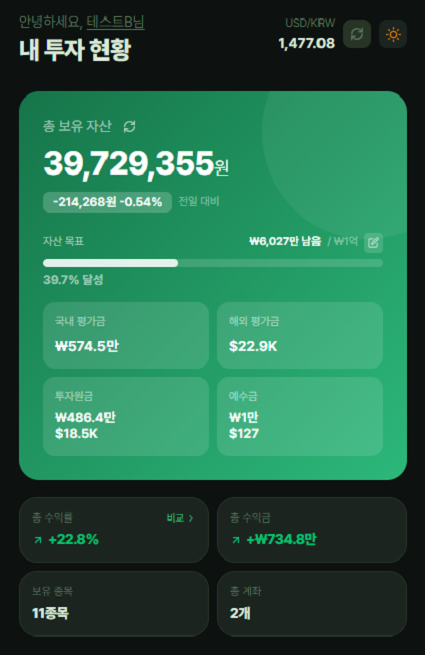
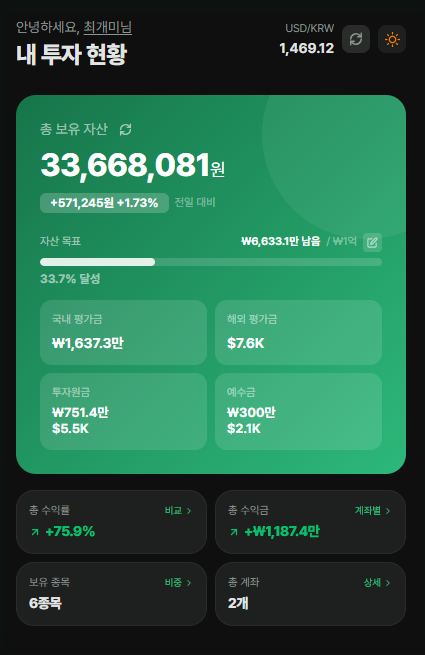
feat: 슬라이드 핵심기능 카드1 이미지 확대 오버레이 추가 + 슬라이드 이미지 업데이트
- 통합 포트폴리오 카드 이미지 영역 클릭 시 img_portfolio_2.png 오버레이 팝업
- 카드2(매매일지), 카드3(영상)과 동일한 zoom-in 오버레이 패턴 적용
- public/slides 이미지 3종 업데이트

diff --git a/src/app/slides/page.tsx b/src/app/slides/page.tsx
@@ -433,6 +433,7 @@ function OcrVideo({ T, active }: { T: Theme; active: boolean }) {
 
 function Slide4a({ T, printMode }: { T: Theme; printMode?: boolean }) {
   const [activeCards, setActiveCards] = useState<Set<number>>(new Set([0]));
+  const [expandedImg0, setExpandedImg0] = useState(false);
   const [expandedImg, setExpandedImg] = useState(false);
   const [expandedVideo, setExpandedVideo] = useState(false);
   const [playbackRate, setPlaybackRate] = useState(1.5);
@@ -486,7 +487,11 @@ function Slide4a({ T, printMode }: { T: Theme; printMode?: boolean }) {
                 </div>
               </div>
             </div>
-            <div className="flex-1 min-h-0 overflow-hidden flex items-start justify-center" style={{ borderTop: `1px solid ${T.border}`, backgroundColor: T.cardAlt }}>
+            <div
+              className="flex-1 min-h-0 overflow-hidden flex items-start justify-center"
+              style={{ borderTop: `1px solid ${T.border}`, backgroundColor: T.cardAlt, cursor: isActive(0) ? "zoom-in" : "default" }}
+              onClick={() => isActive(0) && setExpandedImg0(true)}
+            >
               {/* eslint-disable-next-line @next/next/no-img-element */}
               <img src="/slides/img_portfolio_1.png" alt="대시보드" className="w-full object-contain object-top" style={{ display: "block" }} />
             </div>
@@ -608,6 +613,40 @@ function Slide4a({ T, printMode }: { T: Theme; printMode?: boolean }) {
 
         </div>
       </div>
+
+      {/* 통합 포트폴리오 이미지 확대 오버레이 */}
+      {expandedImg0 && !printMode && (
+        <div
+          className="absolute inset-0 z-50 flex items-center justify-center"
+          style={{ backgroundColor: "rgba(0,0,0,0.80)", backdropFilter: "blur(6px)", animation: "fadeUp 0.25s ease both" }}
+          onClick={() => setExpandedImg0(false)}
+        >
+          <div
+            style={{ position: "relative", animation: "imgZoomIn 0.4s cubic-bezier(0.34,1.56,0.64,1) both" }}
+            onClick={e => e.stopPropagation()}
+          >
+            {/* eslint-disable-next-line @next/next/no-img-element */}
+            <img
+              src="/slides/img_portfolio_2.png"
+              alt="통합 포트폴리오"
+              style={{ maxHeight: "84vh", maxWidth: "74vw", borderRadius: 20, boxShadow: "0 32px 80px rgba(0,0,0,0.7), 0 0 0 1px rgba(255,255,255,0.08)" }}
+            />
+            <button
+              onClick={() => setExpandedImg0(false)}
+              style={{
+                position: "absolute", top: -14, right: -14,
+                width: 36, height: 36, borderRadius: "50%",
+                backgroundColor: "#1E1F1F", border: "1px solid rgba(255,255,255,0.15)",
+                display: "flex", alignItems: "center", justifyContent: "center",
+                cursor: "pointer", color: "#E2E5E2", fontSize: 16, fontWeight: 700,
+                boxShadow: "0 4px 12px rgba(0,0,0,0.5)",
+              }}
+            >
+              ✕
+            </button>
+          </div>
+        </div>
+      )}
 
       {/* 스크린샷 등록 영상 확대 오버레이 */}
       {expandedVideo && !printMode && (
